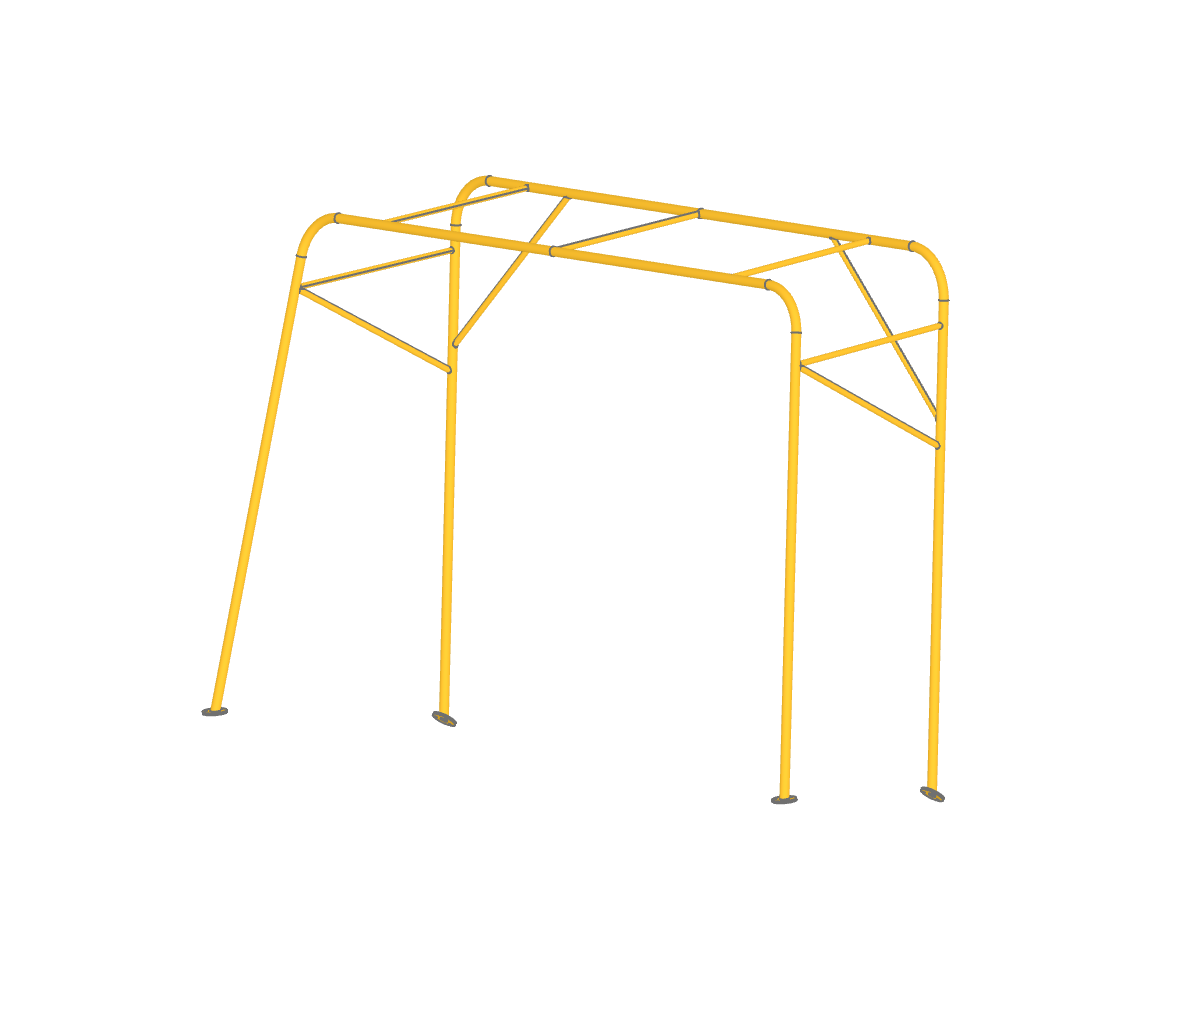
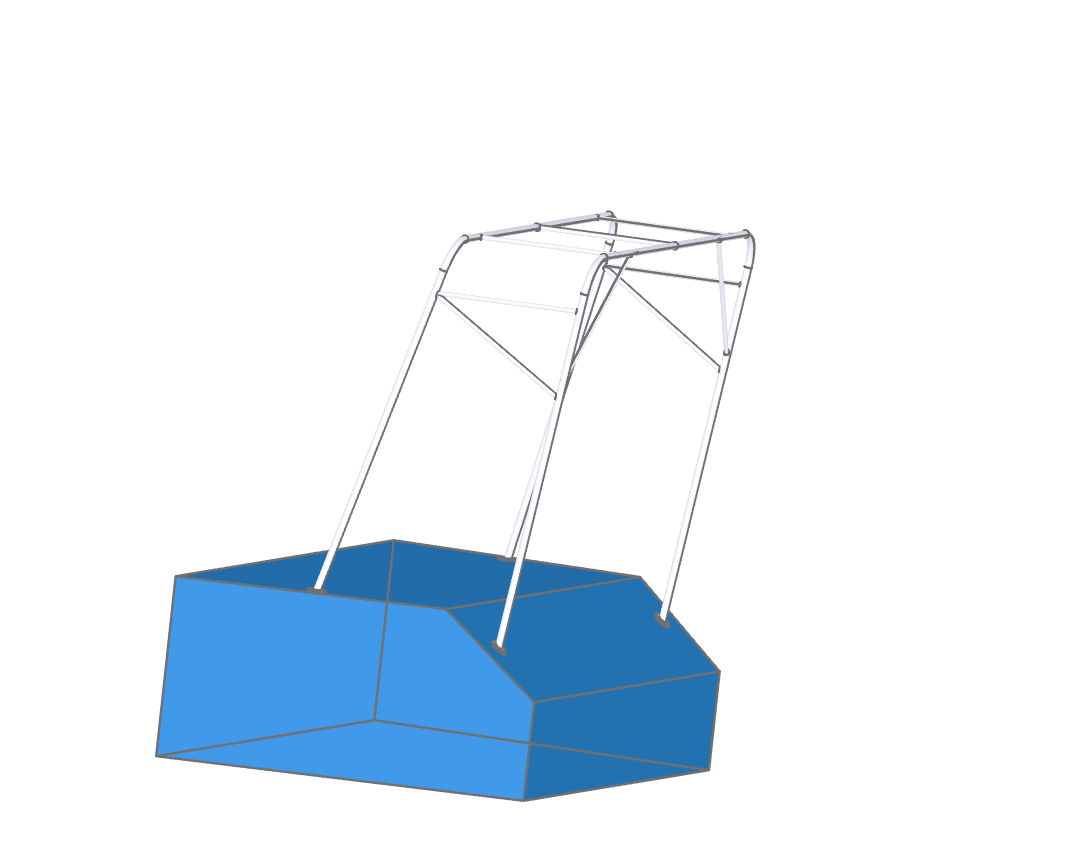
Add crude sailboat stern context model to the arch scene
Build a visualization-only hull beside the solar arch so it can be seen mounted on a sailboat stern: the flat front feet rest on a horizontal deck (z=0) while the tilted back feet rest on a sloping transom/scoop. The scoop plane is measured from the arch's own back foot rather than guessed, and the hull is carved so that plane is its aft top surface - the arch therefore always sits flush on the hull.

The context hull is a separate BuildPart: it never enters arch.stl or the steel mass estimate. Hull dimensions (deck_width_fwd/aft, hull length/depth) are parameters; add --no-viewer for headless runs, which still print a foot-to-hull fit check (plate rim gap and hull-edge margins).

diff --git a/solar_arch.py b/solar_arch.py
@@ -1,4 +1,5 @@
-from math import cos, atan
+import sys
+from math import cos, sin, atan, pi
 from build123d import *
 from ocp_vscode import *
 
@@ -24,6 +25,19 @@ side_support_offset = 0.1 * M
 brace_offset = 0.5 * M
 
 side_support_adjustment = (back_inset/height) * 250
+
+# --- Crude sailboat stern context (visualization only, not exported) ----
+# The front arch feet (flat plates, bottom at z=0) sit on a horizontal deck
+# while the back feet (tilted by back_foot_angle, bottom at z=-drop) sit on
+# the sloping transom/scoop.  The hull widths below are sized so the 3.5 m
+# arch comes close to the hull edge (≈60 mm margin at the front feet).
+boat_cx = width/2              # boat centreline (deck symmetric about it)
+deck_width_aft = 3.4 * M       # hull width at the aft end (y = hull_aft_end)
+deck_width_fwd = 4.0 * M       # hull width at the forward cut
+hull_aft_end = 1.3 * M         # hull aft extent (below the scoop surface)
+hull_len_aft = 1.5 * M         # modeled length forward of the transom crease
+hull_bottom_z = -1.0 * M       # flat-bottom depth
+show_boat = True               # build & show the context hull beside the arch
 
 # --- Mass estimation -----------------------------------------------------
 STEEL_DENSITY = 8.0  # g/cm³ — 316 stainless steel (≈8,000 kg/m³)
@@ -123,6 +137,7 @@ with BuildPart() as arch2:
     with Locations(back_points[0]):
         af = ArchFoot(rotation=(-back_foot_angle,0,90),mode=Mode.PRIVATE)
     back_foot_volume = af.volume  # capture before fusing into the frame
+    back_foot_af = af  # kept so the boat hull can be built on its contact plane
     tf = af.faces().sort_by(Axis.Z)[-4]  
     split(bisect_by=tf)
     add(af)
@@ -194,13 +209,126 @@ with BuildPart() as arch2:
         Circle(cross_member_id/2,mode=Mode.SUBTRACT)
     sweep(path=center_support_frame)
 
-show(arch2)
+# --- Crude sailboat stern context model ----------------------------------
+# The arch's own feet define the boat's mounting surfaces: the front feet
+# (flat plates at z=0) sit on a horizontal deck, while the back feet (tilted
+# plates at y≈1.0 m, z=-drop) sit on the sloping transom/scoop.  Rather than
+# guess, measure the back foot's contact plane from the geometry just built
+# and make that plane the hull's aft scoop surface — the hull then always
+# matches the arch, whatever the parameters.
+if show_boat:
+    # bottom (contact) face of the back foot placed at back_points[0]
+    back_bottoms = [f for f in back_foot_af.faces()
+                    if f.geom_type is GeomType.PLANE
+                    and f.normal_at(f.center()).Z < -0.5]
+    if not back_bottoms:
+        raise RuntimeError("could not locate the back-foot bottom face "
+                           "(is back_foot_angle too small?)")
+    back_bottom = min(back_bottoms,
+                      key=lambda f: (f.center() - back_points[0]).length)
+    transom_plane = Plane(origin=back_bottom.center(),
+                          z_dir=-back_bottom.normal_at(back_bottom.center()))
+    tn = transom_plane.z_dir
+    if abs(tn.Y) < 0.01:
+        raise RuntimeError("back-foot plate is not tilted along the boat "
+                           "axis; keep back_foot_angle > 0 to build the hull")
+    # Y where the transom plane meets deck level z=0 (top edge of the scoop)
+    transom_edge_y = transom_plane.origin.Y - (tn.Z / tn.Y) * (0 - transom_plane.origin.Z)
+    y_cut = transom_edge_y - hull_len_aft
+
+    print(f"Boat context: transom plane origin "
+          f"({transom_plane.origin.X:.0f}, {transom_plane.origin.Y:.0f}, "
+          f"{transom_plane.origin.Z:.0f}) mm, normal "
+          f"({tn.X:.3f}, {tn.Y:.3f}, {tn.Z:.3f})")
+    print(f"  deck/scoop crease at y = {transom_edge_y/1000:.3f} m (z = 0), "
+          f"hull from y = {y_cut/1000:.3f} m to {hull_aft_end/1000:.3f} m")
+
+    with BuildPart() as boat:
+        with BuildSketch(Plane.XY):
+            Polygon((boat_cx - deck_width_aft/2, hull_aft_end),
+                    (boat_cx + deck_width_aft/2, hull_aft_end),
+                    (boat_cx + deck_width_fwd/2, y_cut),
+                    (boat_cx - deck_width_fwd/2, y_cut))
+        extrude(amount=hull_bottom_z)
+        # Carve off the wedge above the transom plane so the aft top of the
+        # hull is exactly the (scoop) plane the back feet rest on.
+        with Locations(transom_plane):
+            Box(length=10*M, width=10*M, height=2*M,
+                align=(Align.CENTER, Align.CENTER, Align.MIN),
+                mode=Mode.SUBTRACT)
+else:
+    boat = None
+
+# --- Viewer, export, screenshot ------------------------------------------
+if "--no-viewer" in sys.argv:
+    print("viewer skipped (--no-viewer)")
+elif show_boat:
+    try:
+        show(arch2, boat, names=["arch", "boat"],
+             colors=[(0.85, 0.85, 0.9), (0.10, 0.45, 0.72)],
+             alphas=[1.0, 0.85])
+    except Exception as exc:
+        print(f"viewer unavailable ({exc}); continuing without it")
+else:
+    show(arch2)
+
 export_stl(arch2.part,'arch.stl')
-save_screenshot('arch.png')
+
+if "--no-viewer" not in sys.argv:
+    try:
+        save_screenshot('arch.png')
+    except Exception as exc:
+        print(f"screenshot unavailable ({exc})")
 
 mass_kg = part_mass(arch2.part)
 feet_kg = 2 * volume_mass(front_foot_volume) + 2 * volume_mass(back_foot_volume)
 print(f"Estimated mass (316 stainless steel): {mass_kg:.1f} kg")
 print(f"  feet (4 x ArchFoot): {feet_kg:.2f} kg")
 print(f"  structure (everything else): {mass_kg - feet_kg:.1f} kg")
+if show_boat:
+    print(f"Boat context hull volume: {boat.part.volume/1e9:.1f} m^3")
+
+# --- Foot-to-hull fit check ----------------------------------------------
+foot_names = ["front (port)", "front (starboard)", "back (port)", "back (starboard)"]
+foot_centres = [Vector(0, 0, 0), Vector(width, 0, 0),
+                Vector(*back_points[0]),
+                Vector(width - back_inset, back_points[0][1], back_points[0][2])]
+
+if show_boat:
+    def deck_width_at(y):
+        """Hull planform width at a given y (trapezoid between the cuts)."""
+        return deck_width_aft + (deck_width_fwd - deck_width_aft) * \
+            (hull_aft_end - y) / (hull_aft_end - y_cut)
+
+    def plate_rim_points(face, radius=40, count=8):
+        """Points on the plate bottom face, `radius` mm out from its centre."""
+        c = face.center()
+        n = face.normal_at(c)
+        u = Vector(1, 0, 0) if abs(n.X) < 0.9 else Vector(0, 1, 0)
+        u = (u - u.dot(n) * n).normalized()
+        v = n.cross(u).normalized()
+        return [c + radius * (cos(2*pi*i/count) * u + sin(2*pi*i/count) * v)
+                for i in range(count)]
+
+    print("\nFoot-to-hull fit (mm; rim gap ≈ 0 means the plate lies on the hull):")
+    ok = True
+    for name, centre in zip(foot_names, foot_centres):
+        cands = [f for f in arch2.part.faces()
+                 if f.geom_type is GeomType.PLANE
+                 and (f.center() - centre).length < 25]
+        bottoms = [f for f in cands if f.normal_at(f.center()).Z < -0.5]
+        if not bottoms:
+            print(f"  {name}: NO bottom face found near "
+                  f"({centre.X:.0f}, {centre.Y:.0f}, {centre.Z:.0f})")
+            ok = False
+            continue
+        bf = min(bottoms, key=lambda f: (f.center() - centre).length)
+        gap = max(boat.part.distance_to(p) for p in plate_rim_points(bf))
+        margin = deck_width_at(centre.Y) / 2 - 50 - abs(centre.X - boat_cx)
+        flag = "" if gap < 0.5 and margin > 10 else "  <-- check!"
+        if flag:
+            ok = False
+        print(f"  {name}: rim gap {gap:.2f} mm, hull-edge margin "
+              f"{margin:.0f} mm{flag}")
+    print("  fit OK" if ok else "  !! foot/hull fit problems — adjust hull widths")
 

diff --git a/README.md b/README.md
@@ -1,6 +1,6 @@
 # build123d-solar-arch
 
-Parametric 3D model of a ground-mount **solar panel support arch**, generated in code with [build123d](https://build123d.readthedocs.io/) (Python CAD on OpenCASCADE). The script builds the complete structure — frames, feet, crossbars, braces, and lifting padeyes — from a handful of parameters, renders it in the ocp-vscode 3D viewer, and exports an STL mesh.
+Parametric 3D model of a **solar panel support arch**, generated in code with [build123d](https://build123d.readthedocs.io/) (Python CAD on OpenCASCADE). The script builds the complete structure — frames, feet, crossbars, braces, and lifting padeyes — from a handful of parameters, renders it in the ocp-vscode 3D viewer, and exports an STL mesh. It also builds a **crude sailboat stern context model** alongside the arch (front feet on the horizontal deck, back feet on the sloping transom) purely for visualization — the context hull is a separate part and never enters the STL export or the mass estimate.
 
 ![arch](arch.png)
 
@@ -16,7 +16,15 @@ A 3.5 m wide portal-style frame made of 40 mm round tube (2 mm wall), with:
 - **Two padeyes** — Ø25 half-torus lifting lugs on the outside of the back top rail
 - The half-model is mirrored about mid-span for a symmetric structure
 
-Current export: `arch.stl`, ~7.2 MB, ~144k triangles.
+A **crude stern-context hull** is shown beside the arch (translucent, not fused):
+a flat deck at z=0 carries the front (flat) feet, while the back (tilted) feet
+rest on a sloped transom/scoop surface. The scoop plane is *measured from the
+arch's own back feet* (`back_foot_angle`, `drop`), and the hull is carved so
+that plane becomes its aft top surface — the arch therefore always sits flush
+on the hull. See the `boat_*` / `deck_width_*` parameters.
+
+Current export: `arch.stl`, arch only (~7 MB, ~144k triangles); the context hull
+is never included.
 
 ## Requirements
 
@@ -31,11 +39,21 @@ conda env create -f environment.yaml   # env name: ocp
 ## Running
 
 ```bash
+cd /path/to/build123d-solar-arch   # run from the project root
 conda activate ocp
 python solar_arch.py
 ```
 
-This builds the model, sends it to the 3D viewer (`show(arch2)`), and writes `arch.stl` (`export_stl`) plus `arch.png` (`save_screenshot`, requires the viewer to be open).
+This builds the model, sends it to the 3D viewer (`show(arch2, boat)`), and writes `arch.stl` (`export_stl`) plus `arch.png` (`save_screenshot`, requires the viewer to be open).
+
+> **Headless runs:** pass `--no-viewer` to skip `show()`/`save_screenshot()` while
+> still building the geometry, running the fit checks, and exporting `arch.stl`:
+> `python solar_arch.py --no-viewer`.
+
+> **Run from the project directory.** `solar_arch.py` is opened relative to your
+> current working directory, not the script's location. If you get
+> `python: can't open file '.../solar_arch.py': No such file or directory`, you are
+> in the wrong folder — `cd` into this repo first (check with `pwd`).
 
 > **No conda on PATH?** Conda isn't initialized in your shell yet. Either run once
 > `<conda-prefix>/bin/conda init zsh` (e.g. `/Users/stephenday/miniconda3/bin/conda init zsh`),
@@ -46,7 +64,22 @@ This builds the model, sends it to the 3D viewer (`show(arch2)`), and writes `ar
 
 `show()` needs a running viewer:
 
-- **VSCode** — install the *OpenCascade CAD Viewer* extension (`bernhard-42.ocp-cad-viewer`) and run the script from the Python Interactive window.
+- **VSCode** — install the *OpenCascade CAD Viewer* extension (`bernhard-42.ocp-cad-viewer`).
+
+  **Recommended flow:** open `solar_arch.py` as the active tab in VSCode — the
+  `from ocp_vscode import *` line auto-launches the viewer (`Ocp CAD Viewer >
+  Advanced: Autostart`). Confirm the viewer is up: the VSCode status bar shows
+  `OCP: <port>` and `~/.ocpvscode` lists that port under `services`. Then run the
+  script from **that VSCode window's integrated terminal**:
+
+  ```bash
+  python solar_arch.py
+  ```
+
+  If the viewer doesn't auto-start, open it manually via the Command Palette
+  (`Cmd+Shift+P`) → **"OCP CAD Viewer: Open viewer"**. If `show()` still reports
+  `Port could not be cast to integer value as 'None'`, no viewer is registered —
+  ensure the viewer panel is open before running.
 - **Standalone (no VSCode)** — start the built-in browser viewer:
 
   ```bash
@@ -81,8 +114,8 @@ All dimensions are in **millimetres** (`M` = 1000, `MM` = 1). Edit the constants
 | `back_inset` | 0.25 m | `(width − back_width) / 2`, leg inset from the outside |
 | `height` | 2.0 m | top rail height |
 | `depth` | 1.0 m | front-to-back depth of the frame |
-| `drop` | 0.2 m | back feet set below grade |
-| `back_foot_angle` | 40° | tilt of the back foot plates |
+| `drop` | 0.2 m | how far the back feet sit below the deck/scoop crease (transom drop) |
+| `back_foot_angle` | 40° | tilt of the back foot plates — sets the transom/scoop slope the hull is built to |
 | `front_offset` / `back_offset` | 0.5 / 0.3 m | forward lean of the front / back legs at the top |
 | `tube_od` / `wall_thickness` | 40 / 2 mm | frame tube outer diameter and wall thickness (ID 36 mm) |
 | `cross_member_od` | 25 mm | cross-member (top support, side rails, brace, center support) outer diameter (ID 21 mm) |
@@ -91,6 +124,13 @@ All dimensions are in **millimetres** (`M` = 1000, `MM` = 1). Edit the constants
 | `side_support_offset` | 0.1 m | side rails offset from the leg bottoms |
 | `brace_offset` | 0.5 m | diagonal brace position along the back legs |
 | `rise_rate` | 0 | experimental crown rise (`TangentArc`); `0` = flat top |
+| `show_boat` | True | build & show the crude stern-context hull beside the arch |
+| `boat_cx` | 1.75 m | boat centreline x (`width/2`); hull symmetric about it |
+| `deck_width_aft` | 3.6 m | hull width at the aft end (`hull_aft_end`) |
+| `deck_width_fwd` | 4.0 m | hull width at the forward cut |
+| `hull_aft_end` | 1.3 m | hull aft extent below the scoop surface |
+| `hull_len_aft` | 3.5 m | modeled hull length forward of the transom crease |
+| `hull_bottom_z` | −2.6 m | flat-bottom depth |
 
 ## Project layout
 
